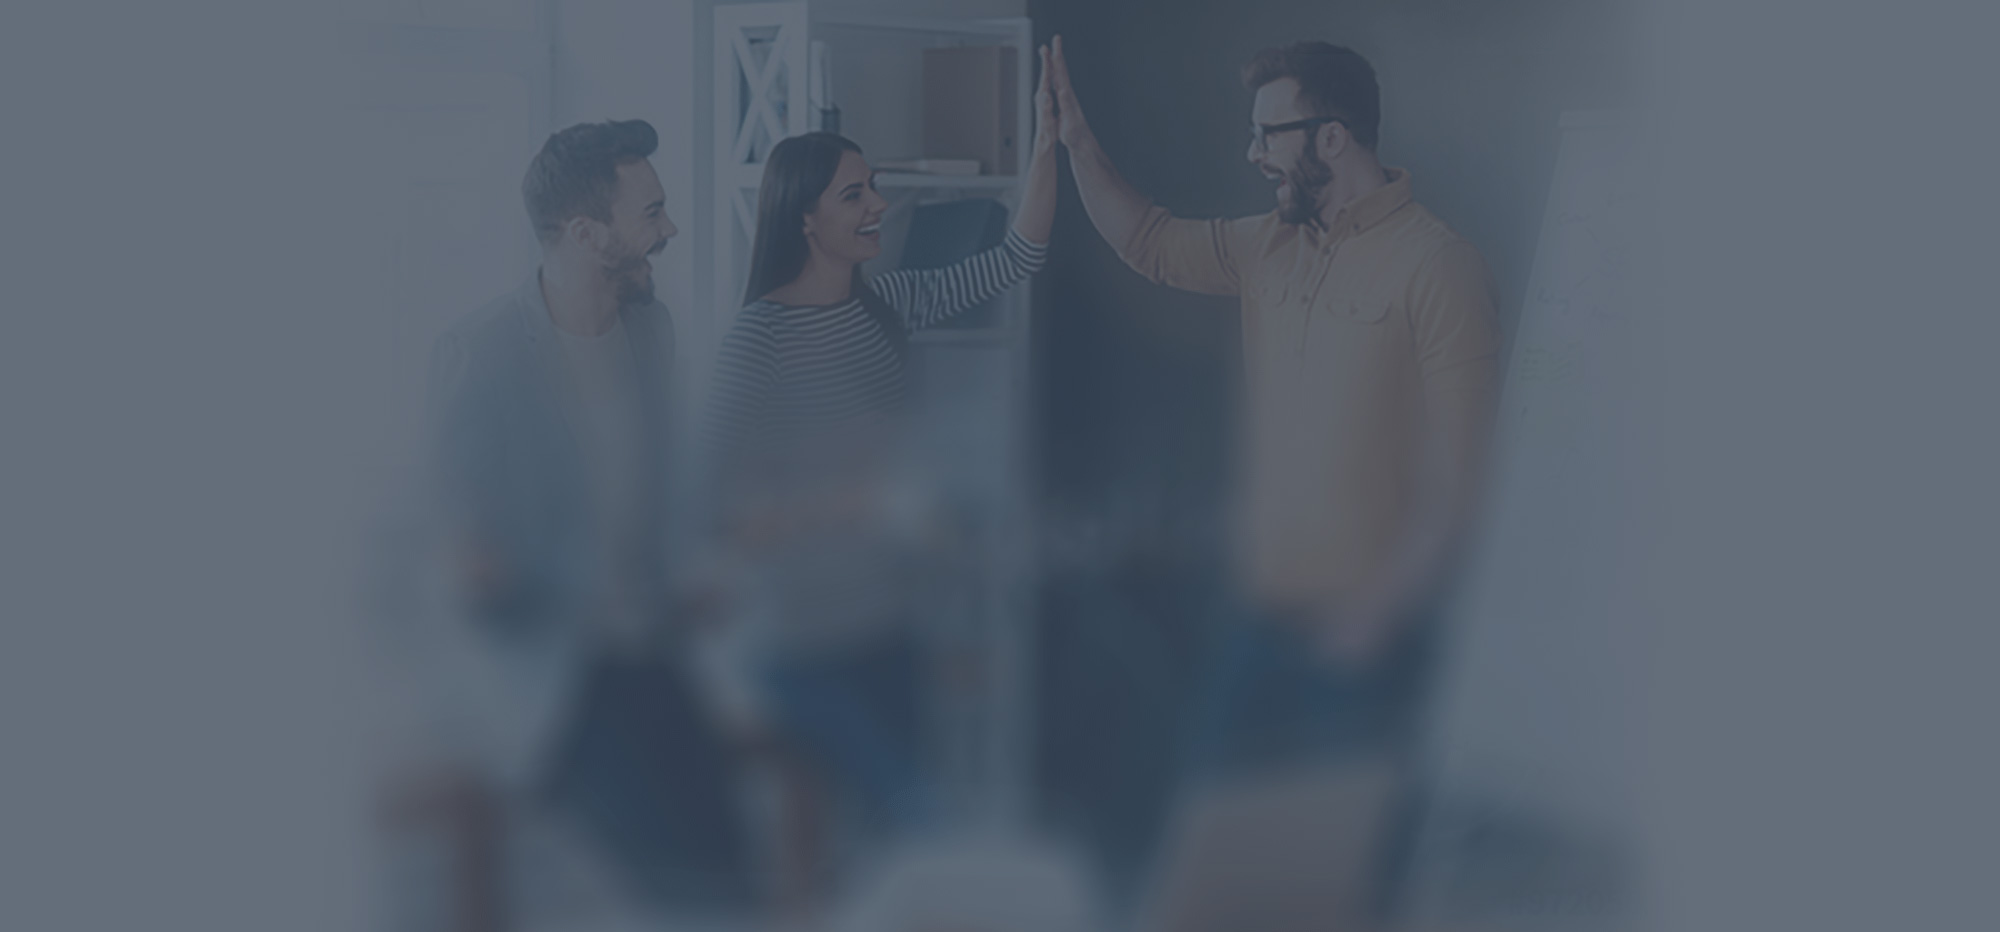
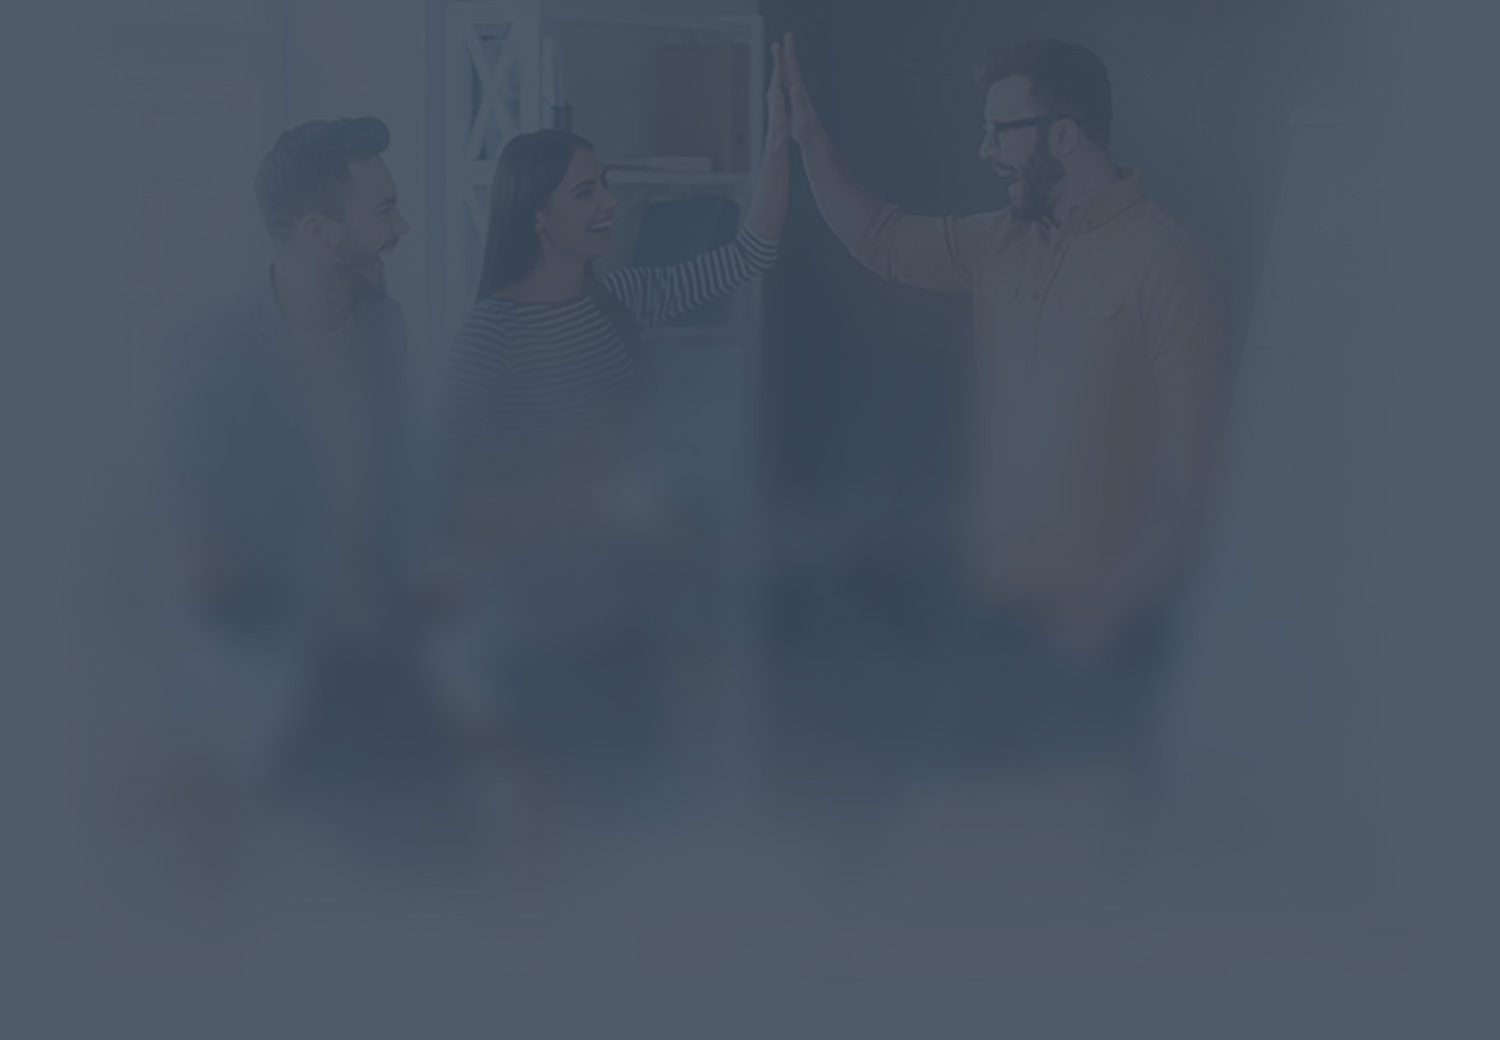
"Unlimited heroImage size". Changed heroImage and adjusted background color.

diff --git a/blinch_backend/rest-service/src/main/resources/static/css/styles_custom.css b/blinch_backend/rest-service/src/main/resources/static/css/styles_custom.css
@@ -235,7 +235,7 @@ form {
 	text-align: center;
 	position: relative; /* Must be specified for centering the .introContainer */
 	overflow: scroll;
-	background-color: #455156;
+	background-color: #4F5B69; /* ( Same as 90% blue overlay on picture) */
 }
 
 .introContainer {
@@ -876,7 +876,7 @@ figcaption {
 		background-repeat: no-repeat;
 		text-align: center;
 		position: relative;
-		background-color: #455156;
+
 	}
 
 
